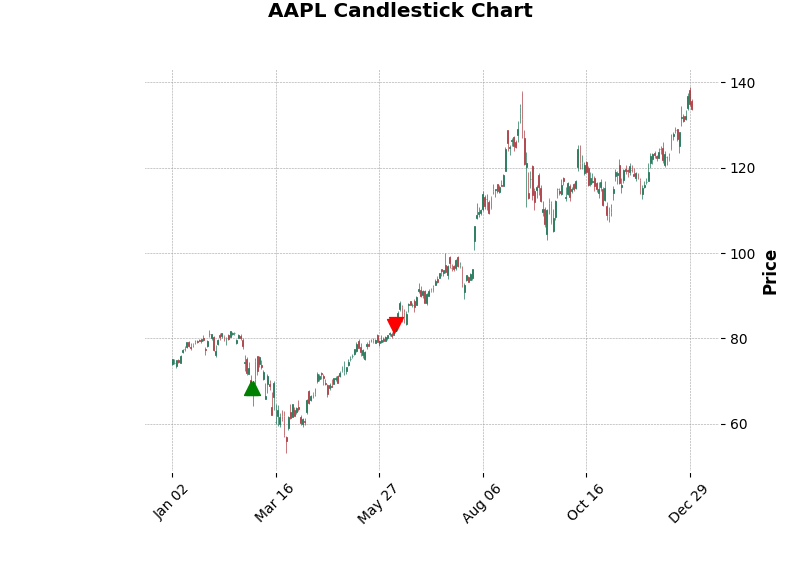
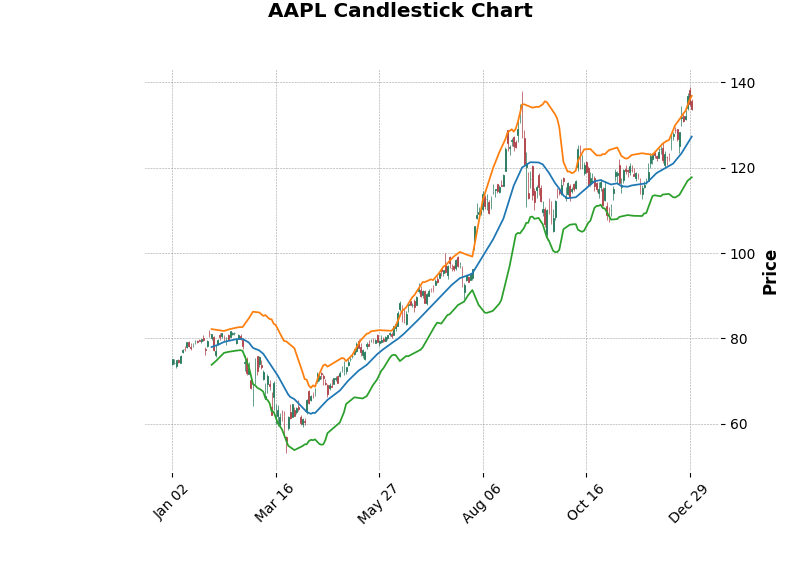
WORKING BASIC VERSION

diff --git a/graph_charts.py b/graph_charts.py
@@ -1,57 +1,98 @@
+import matplotlib.pyplot as plt
+import numpy as np
 import pandas as pd
 import mplfinance as mpf
-import matplotlib.pyplot as plt
-import pandas_ta as ta
+import matplotlib.dates as mdates
+from mplfinance.original_flavor import candlestick_ohlc
+import matplotlib
+matplotlib.use('agg')
 
-def create_candlestick_chart(input_file, output_file, stock, backtesting_instance, volume=False, bollinger_bands=False, moving_averages=False, rsi=False):
-    data_original = pd.read_csv(input_file, index_col=0, parse_dates=True)
-    msft_columns = [col for col in data_original.columns if 'MSFT' in col]
-    msft_data = data_original[msft_columns]
-    msft_data.columns = [col.replace('MSFT ', '') for col in msft_data.columns]
+def plot_data_points():
+    # Sample data points
+    x = [1, 2, 3, 4, 5]
+    y = [2, 4, 6, 8, 10]
 
-    data = msft_data.copy()
-    data.index.name = 'Date'
-    data = data.rename(columns={'Adj Close': 'Close', 'High': 'High', 'Low': 'Low', 'Open': 'Open', 'Volume': 'Volume'})
-    data = data[['Open', 'High', 'Low', 'Close', 'Volume']]
+    # Create a figure and axis
+    fig, ax = plt.subplots()
 
-    buy_dates = [order['date'] for order in backtesting_instance.orders if order['type'] == 'buy' and order['stock'] == stock]
-    sell_dates = [order['date'] for order in backtesting_instance.orders if order['type'] == 'sell' and order['stock'] == stock]
+    # Plot the data points
+    ax.scatter(x, y)
 
-    buy_signals = data.loc[buy_dates]
-    sell_signals = data.loc[sell_dates]
+    # Set labels for the x and y axes
+    ax.set_xlabel('X Axis')
+    ax.set_ylabel('Y Axis')
 
-    apds = []
+    # Set the title of the plot
+    ax.set_title('Sample Data Points')
+
+    # Save the plot as an image
+    plt.savefig('static/plot.png', format='png', bbox_inches='tight')
+
+def add_bollinger_bands(data):
+    data_with_bb = data.copy()
+    data_with_bb['20 Day MA'] = data['Close'].rolling(window=20).mean()
+    data_with_bb['Upper Band'] = data_with_bb['20 Day MA'] + 2 * data['Close'].rolling(window=20).std()
+    data_with_bb['Lower Band'] = data_with_bb['20 Day MA'] - 2 * data['Close'].rolling(window=20).std()
+    bollinger_bands = [mpf.make_addplot(data_with_bb['20 Day MA']), mpf.make_addplot(data_with_bb['Upper Band']), mpf.make_addplot(data_with_bb['Lower Band'])]
+    return bollinger_bands, data_with_bb
+
+def add_moving_averages(data):
+    data_with_ma = data.copy()
+    data_with_ma['50 Day MA'] = data['Close'].rolling(window=50).mean()
+    data_with_ma['200 Day MA'] = data['Close'].rolling(window=200).mean()
+    moving_averages = [mpf.make_addplot(data_with_ma['50 Day MA'], color='red'), mpf.make_addplot(data_with_ma['200 Day MA'], color='blue')]
+    return moving_averages, data_with_ma
+
+def add_rsi(data, period=14):
+    delta = data['Close'].diff()
+    gains = delta.where(delta > 0, 0)
+    losses = -delta.where(delta < 0, 0)
+
+    avg_gain = gains.rolling(window=period).mean()
+    avg_loss = losses.rolling(window=period).mean()
+
+    rs = avg_gain / avg_loss
+    rsi = 100 - (100 / (1 + rs))
+
+    data_with_rsi = data.copy()
+    data_with_rsi['RSI'] = rsi
+
+    rsi_plot = mpf.make_addplot(data_with_rsi['RSI'], panel=1, secondary_y=False, color='g')
+    return rsi_plot, data_with_rsi
+
+
+def add_volume(data, stock, data_original):
+    data_with_volume = data.copy()
+    data_with_volume['Volume'] = data_original[f'{stock} Volume']
+    return data_with_volume
+
+def create_candlestick_chart(csv_file, output_filename, stock, volume=False, bollinger_bands=False, moving_averages=False, rsi=False):
+    data_original = pd.read_csv(csv_file, index_col=0, parse_dates=True)
+    column_prefix = stock
+    data = data_original[[f'{column_prefix} Open', f'{column_prefix} High', f'{column_prefix} Low', f'{column_prefix} Close']]
+    data.columns = ['Open', 'High', 'Low', 'Close']
 
     if volume:
-        apds.append(mpf.make_addplot(data['Volume'], panel=1, color='g', secondary_y=False))
+        data = add_volume(data, stock, data_original)
+
+    additional_plots = []
 
     if bollinger_bands:
-        data['upper_bb'], data['middle_bb'], data['lower_bb'] = ta.bbands(data['Close'])
-        apds.append(mpf.make_addplot(data['upper_bb'], color='silver'))
-        apds.append(mpf.make_addplot(data['middle_bb'], color='silver'))
-        apds.append(mpf.make_addplot(data['lower_bb'], color='silver'))
+        bb_plots, data = add_bollinger_bands(data)
+        additional_plots.extend(bb_plots)
 
     if moving_averages:
-        data['SMA20'] = ta.sma(data['Close'], length=20)
-        data['SMA50'] = ta.sma(data['Close'], length=50)
-        apds.append(mpf.make_addplot(data['SMA20'], color='magenta'))
-        apds.append(mpf.make_addplot(data['SMA50'], color='orange'))
+        ma_plots, data = add_moving_averages(data)
+        additional_plots.extend(ma_plots)
 
     if rsi:
-        data['RSI'] = backtesting_instance.calculate_rsi(data_original)
-        apds.append(mpf.make_addplot(data['RSI'], panel=2, color='b', secondary_y=False))
+        rsi_plot, data = add_rsi(data)
+        additional_plots.append(rsi_plot)
 
-    fig, axes = mpf.plot(data, type='candle', style='charles', title=f'{stock} Candlestick Chart', ylabel='Price', addplot=apds, returnfig=True, volume=volume)
+    mpf.plot(data, type='candle', style='charles', title=f'{stock} Candlestick Chart', ylabel='Price',
+             ylabel_lower='Volume', volume=volume, addplot=additional_plots, savefig=output_filename)
 
-    for index, row in buy_signals.iterrows():
-        axes[0].annotate('BUY', xy=(index, row['Low']), xytext=(index, row['Low'] - 1), arrowprops=dict(facecolor='green', edgecolor='green', shrink=0.05), fontsize=8, color='g')
 
-    for index, row in sell_signals.iterrows():
-        axes[0].annotate('SELL', xy=(index, row['High']), xytext=(index, row['High'] + 1), arrowprops=dict(facecolor='red', edgecolor='red', shrink=0.05), fontsize=8, color='r')
-
-    plt.savefig(output_file)
-    plt.close()
-
-def create_all_charts(backtesting_instance, volume=False, bollinger_bands=False, moving_averages=False, rsi=False):
-    create_candlestick_chart('historical_stock_data.csv', 'static/MSFT_chart.png', 'MSFT', backtesting_instance, volume=volume, bollinger_bands=bollinger_bands, moving_averages=moving_averages, rsi=rsi)
-
+def create_all_charts(volume=False, bollinger_bands=False, moving_averages=False, rsi=False):
+    create_candlestick_chart('historical_stock_data.csv', 'static/AAPL_chart.png', 'AAPL', volume=volume, bollinger_bands=bollinger_bands, moving_averages=moving_averages, rsi=rsi)
+    create_candlestick_chart('historical_stock_data.csv', 'static/MSFT_chart.png', 'MSFT', volume=volume, bollinger_bands=bollinger_bands, moving_averages=moving_averages, rsi=rsi)

diff --git a/main.py b/main.py
@@ -1,22 +1,20 @@
 from flask import Flask, render_template, request
-import pandas as pd
-from get_stock_data import get_stock_data
+import graph_charts
 
 app = Flask(__name__)
 
-@app.route('/', methods=['GET', 'POST'])
+@app.route("/", methods=["GET", "POST"])
 def index():
-    if request.method == 'POST':
-        tickers = request.form.get('tickers')
-        start_date = request.form.get('start_date')
-        end_date = request.form.get('end_date')
+    if request.method == "POST":
+        volume = request.form.get("volume") == "on"
+        bollinger_bands = request.form.get("bollinger_bands") == "on"
+        moving_averages = request.form.get("moving_averages") == "on"
+        rsi = request.form.get("rsi") == "on"
 
-        stock_data = get_stock_data(tickers, start_date, end_date)
+        graph_charts.create_all_charts(volume=volume, bollinger_bands=bollinger_bands, moving_averages=moving_averages, rsi=rsi)
 
-        return render_template('index.html', stock_data=stock_data.to_html())
+    return render_template("index.html")
 
-    return render_template('index.html')
-
-if __name__ == '__main__':
+if __name__ == "__main__":
     app.run(debug=True)
 
